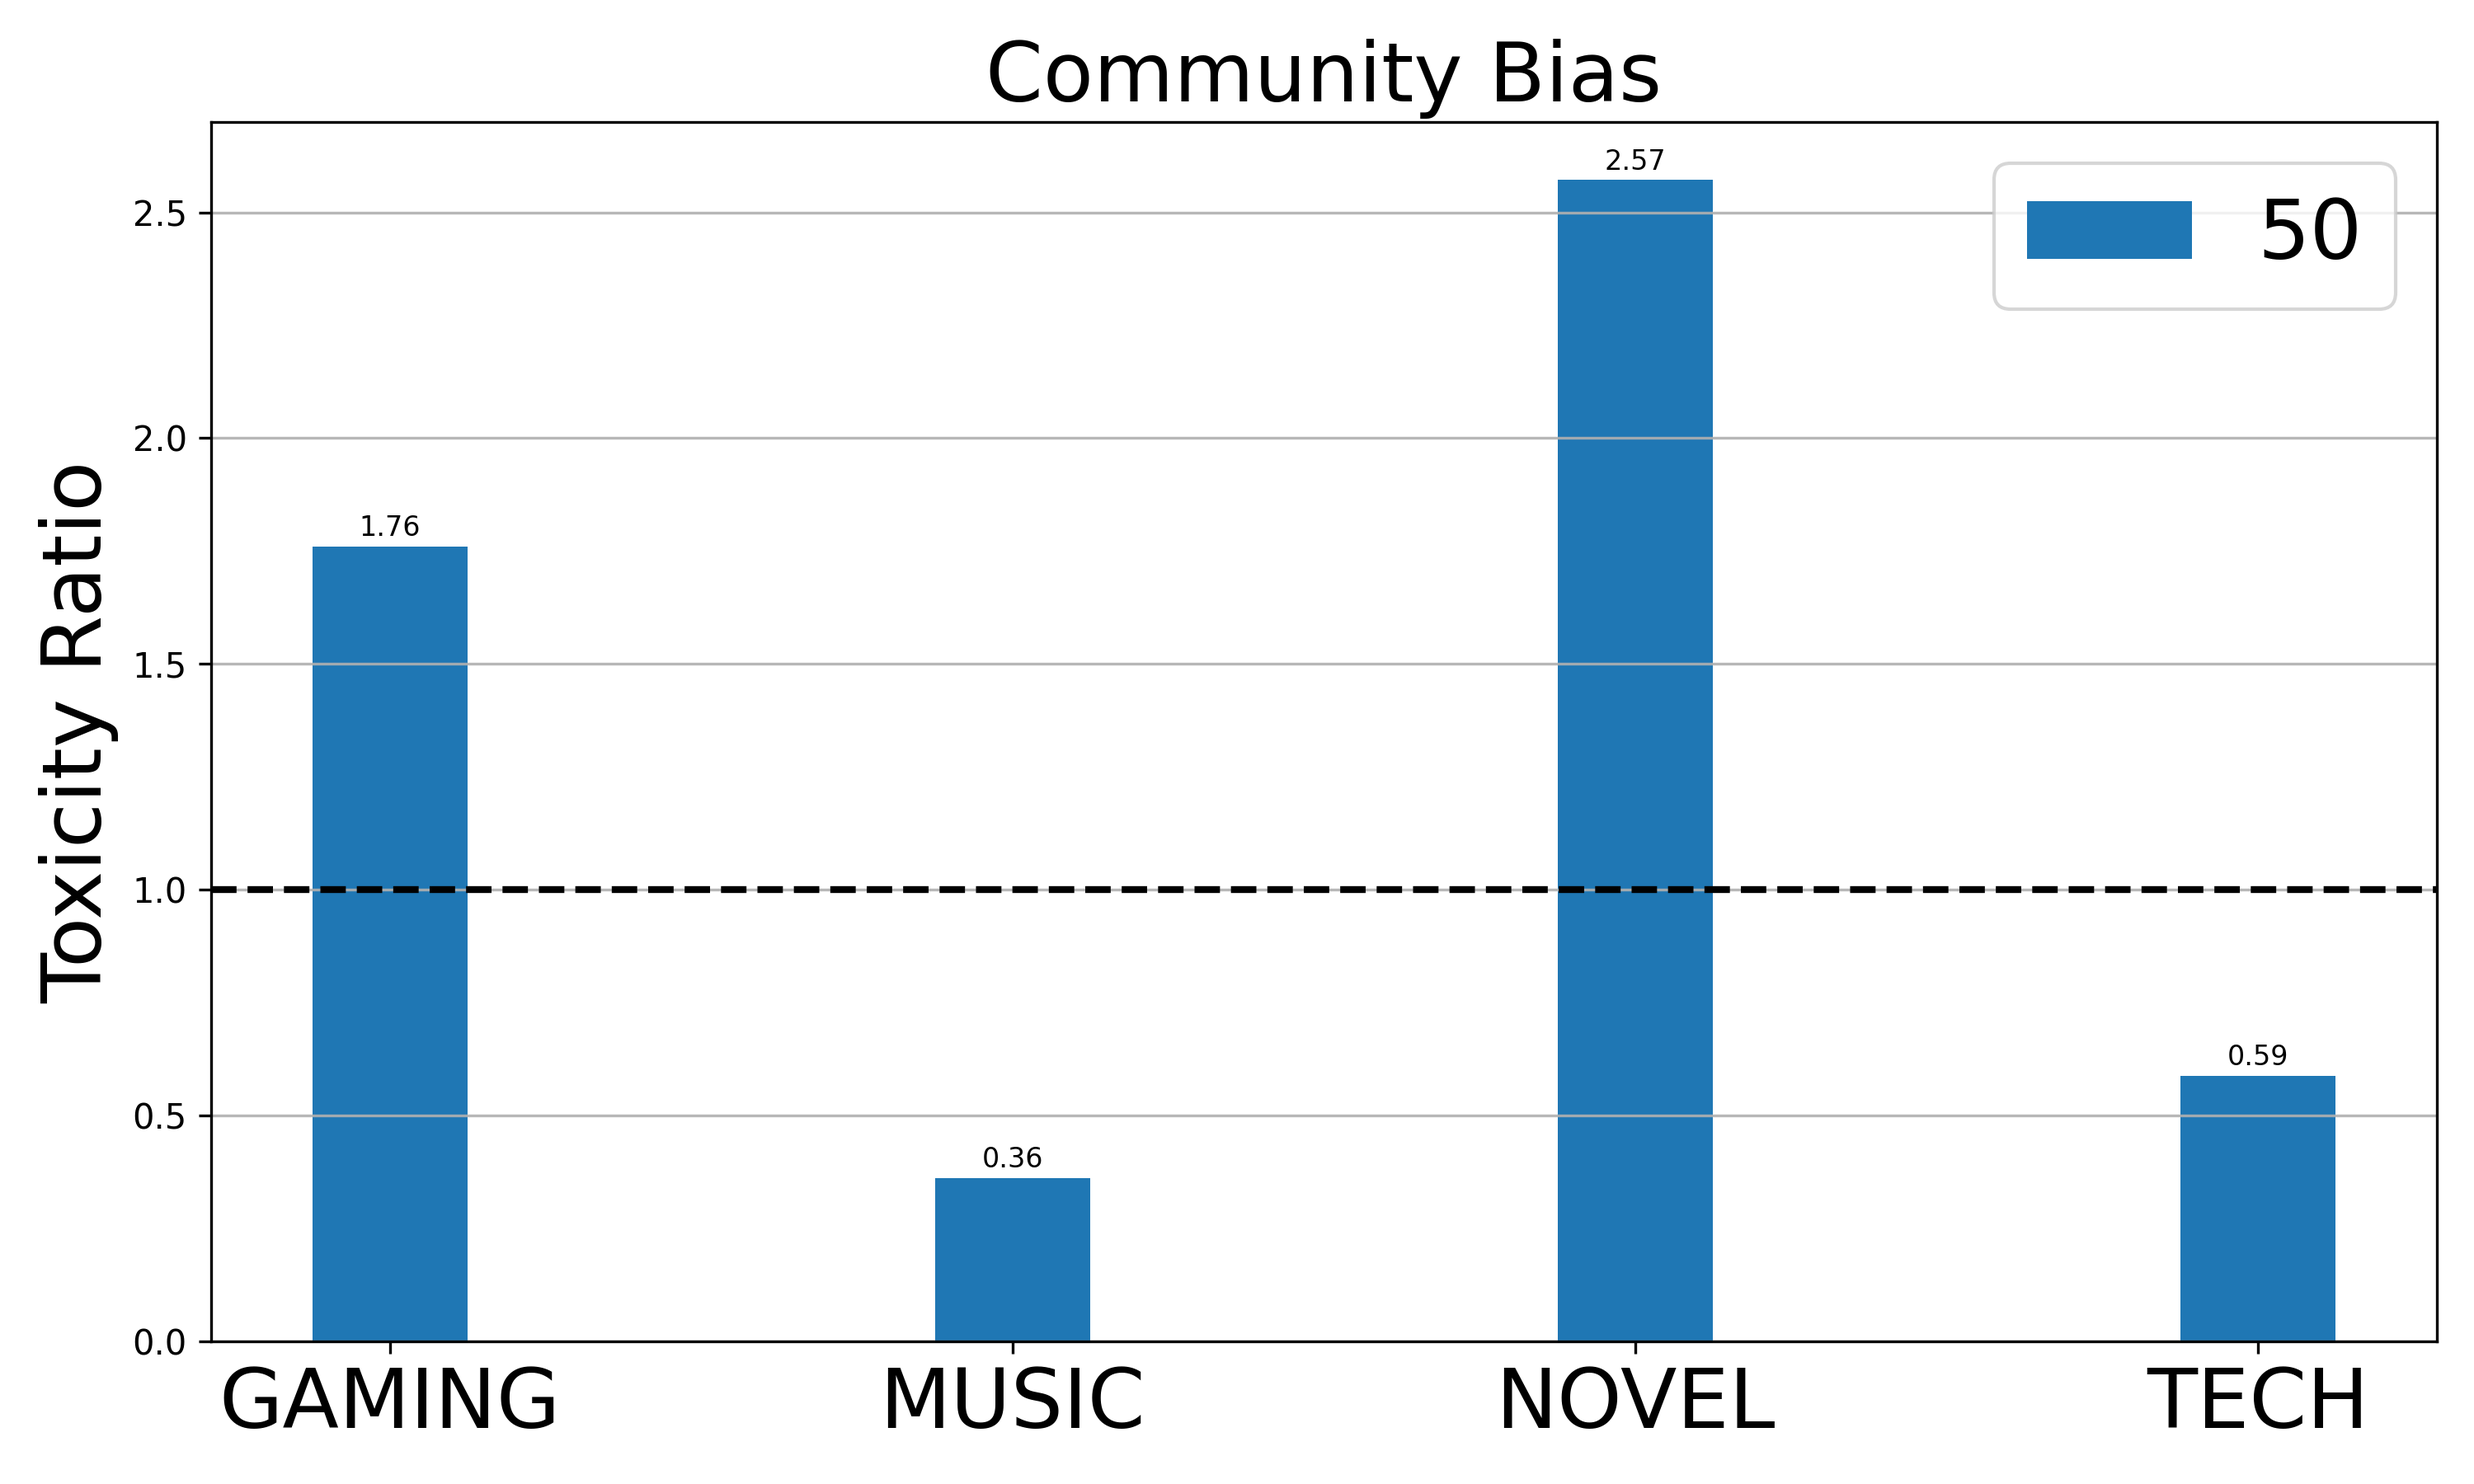
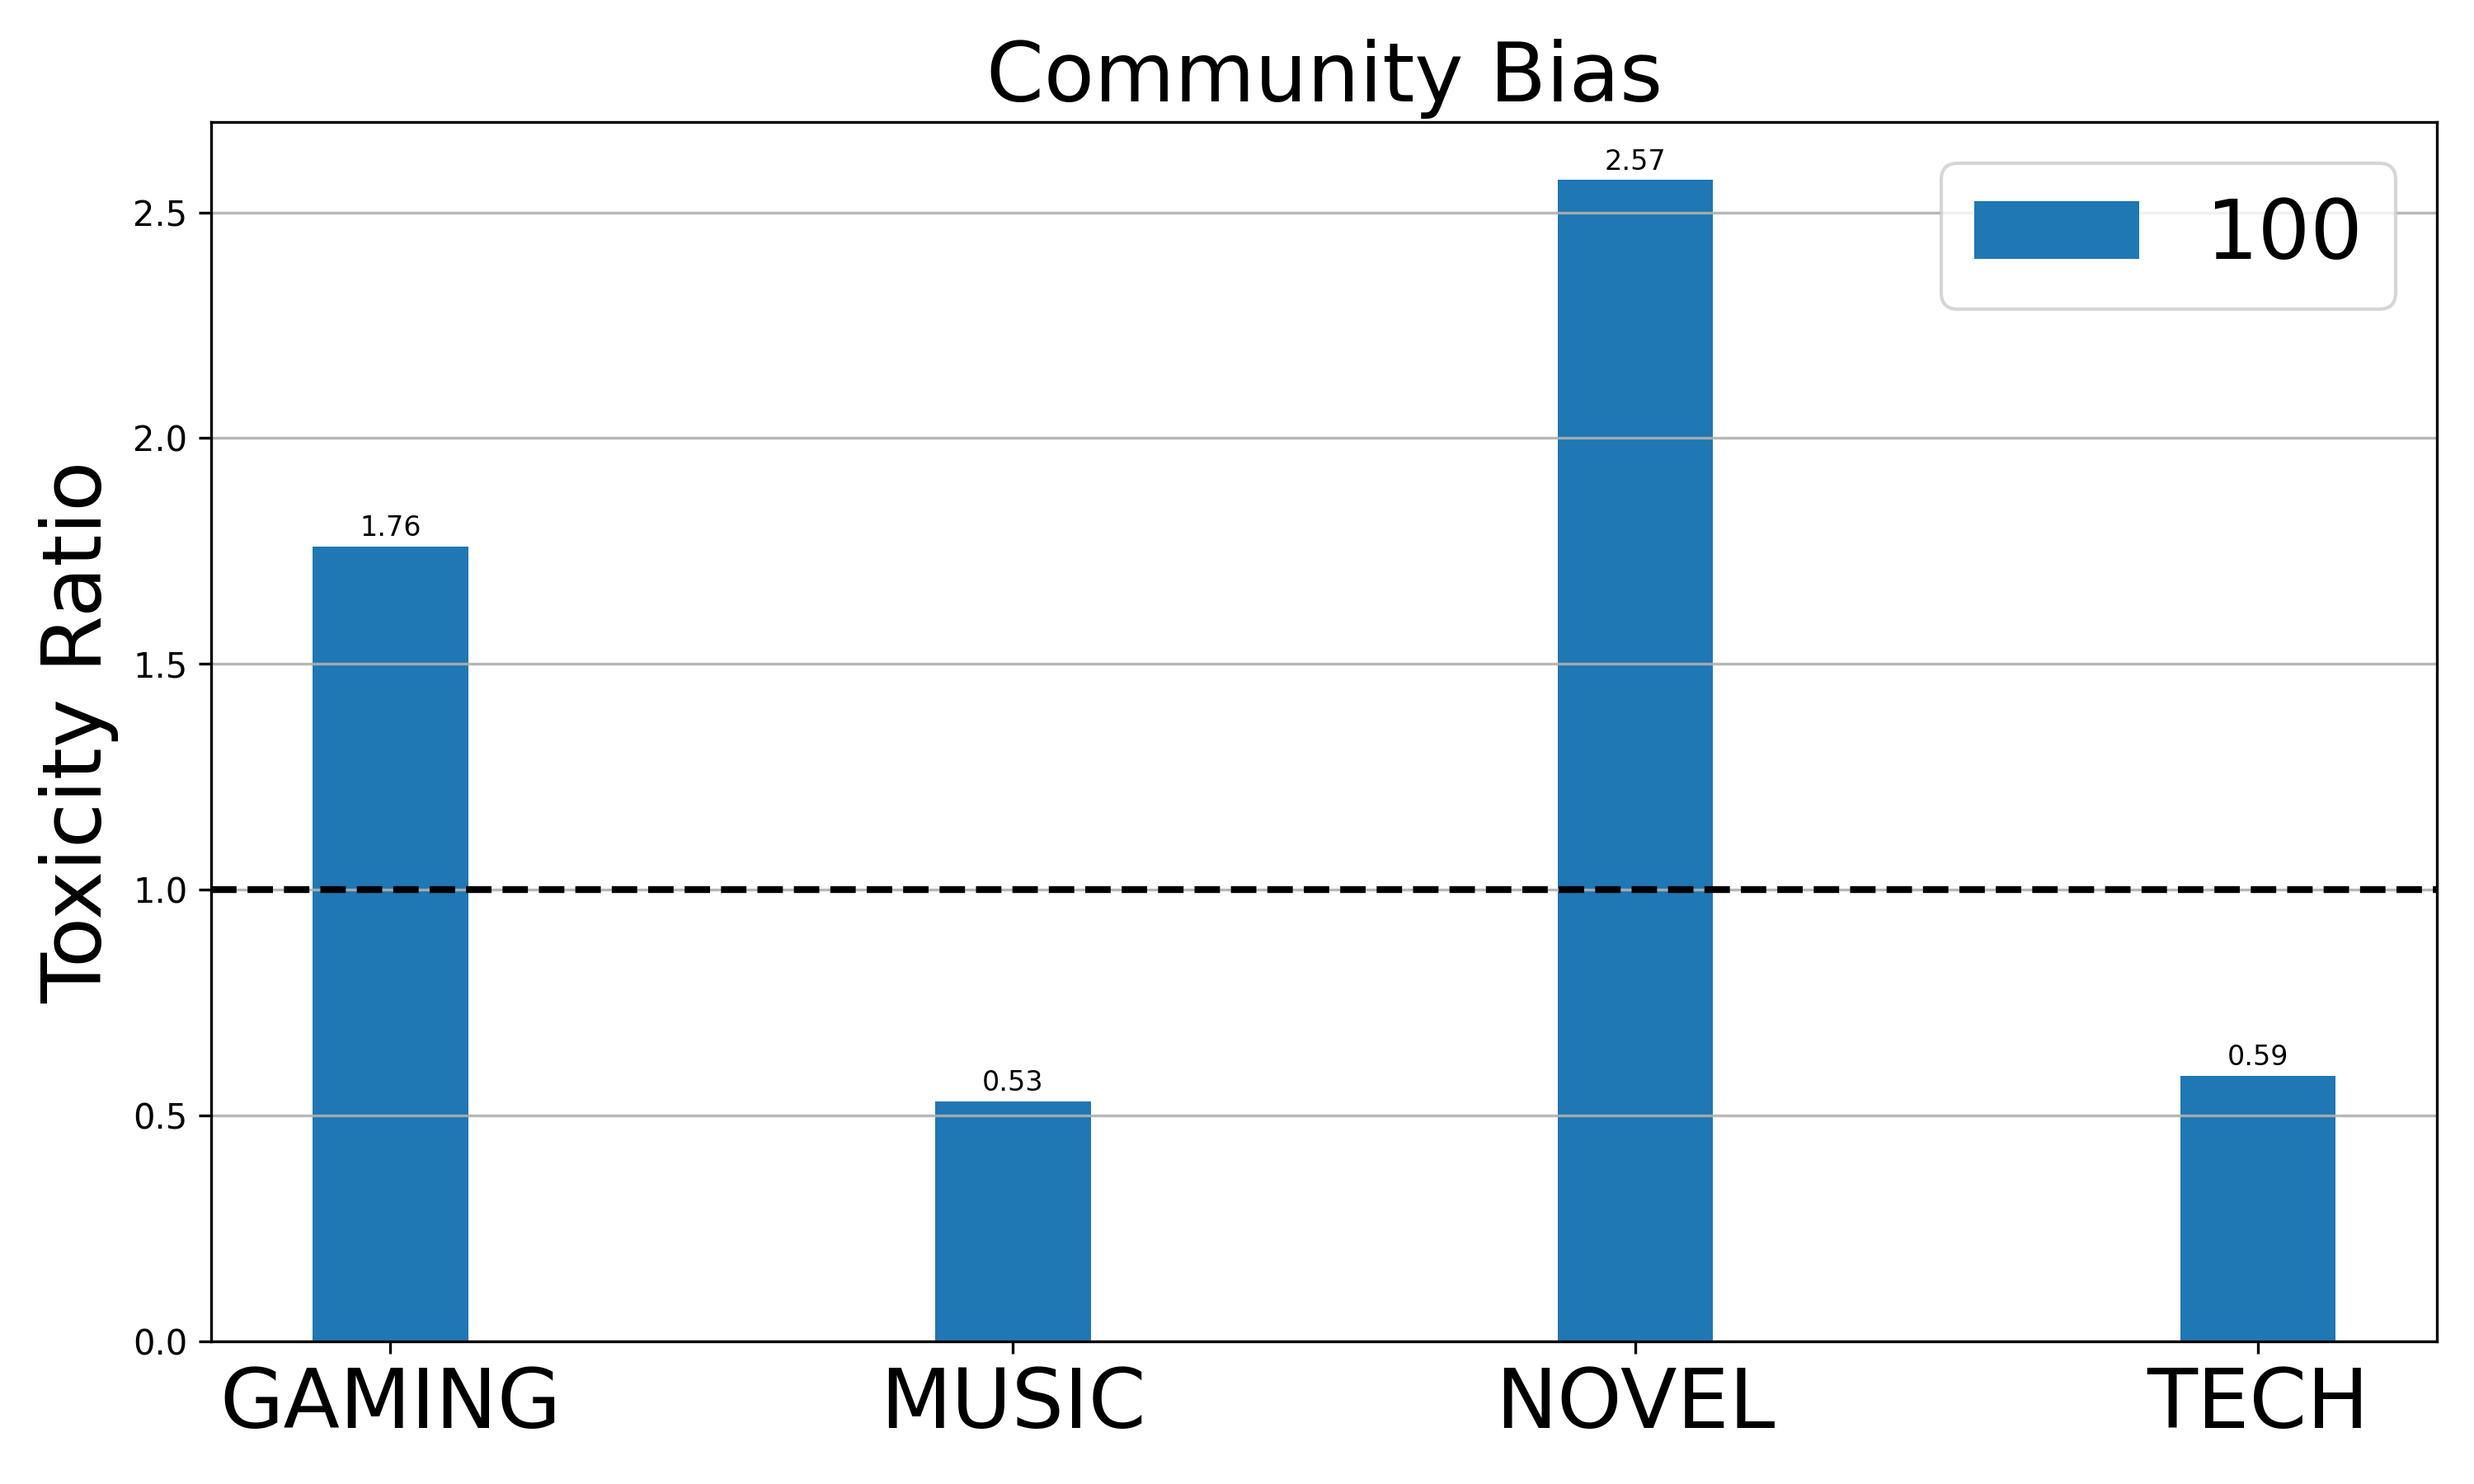
rerun toxic graph to include relabeling

diff --git a/graphs/topic.py b/graphs/topic.py
@@ -62,7 +62,7 @@ def get_perspective_probabilities():
                 if float(last_part) >= 0.5:
                     count += 1
         perspective_probs[i] = count / float(50)
-        
+
     for i, topic in enumerate(communities_perspective):
         count=0
         with open(f'../classification/community/{topic}', 'r', encoding='utf-8') as f:
@@ -81,28 +81,28 @@ if __name__ == '__main__':
     human_probs = get_human_probabilities()
     human_probs[1] = 1
     perspective_probs = get_perspective_probabilities()
-    
+
     human_probs = human_probs[10:]
     perspective_probs = perspective_probs[10:]
-    
+
     # print('Human probabilities: ', get_human_probabilities())
     # print('Perspective probabilities 100: ', get_perspective_probabilities())
     # print('Bias: ', np.array(get_perspective_probabilities()) / np.array(get_human_probabilities()))
-    
+
     # create a bar graph of bias
     # bias_1000 = np.array(get_perspective_probabilities(1000)) / np.array(get_human_probabilities())
     # bias_100 = np.array(get_perspective_probabilities(100)) / np.array(get_human_probabilities())
     # bias_100[3] += 0.05
-    
+
     bias = np.array(perspective_probs) / np.array(human_probs)
 
-    sub_categories = ['50']
+    sub_categories = ['100']
 
     # Data for each sub-category (same order as sub_categories)
     values = [
         bias,
     ]
-    
+
     values = np.array(values)
     values = values.T
 
@@ -118,7 +118,7 @@ if __name__ == '__main__':
         ax.bar(x + i * bar_width, values[:, i], width=bar_width, label=sub_categories[i], color=colors[i])
         # Add value labels on top of bars
         for j in range(4):
-            ax.text(x[j] + i * bar_width, values[j, i] + 0.01, f'{values[j, i]:.2f}', 
+            ax.text(x[j] + i * bar_width, values[j, i] + 0.01, f'{values[j, i]:.2f}',
                     ha='center', va='bottom', fontsize=8)
 
     ax.axhline(y=1, color='k', linestyle='--', linewidth=2)
@@ -134,9 +134,8 @@ if __name__ == '__main__':
     # Grid and layout
     ax.grid(axis='y', linestyle='-', linewidth=0.8, alpha=0.9)
     plt.tight_layout()
-    
+
     plt.savefig('./topic_graph.png', dpi=300)
     # plt.show()
-    
+
     plt.close()
-    
